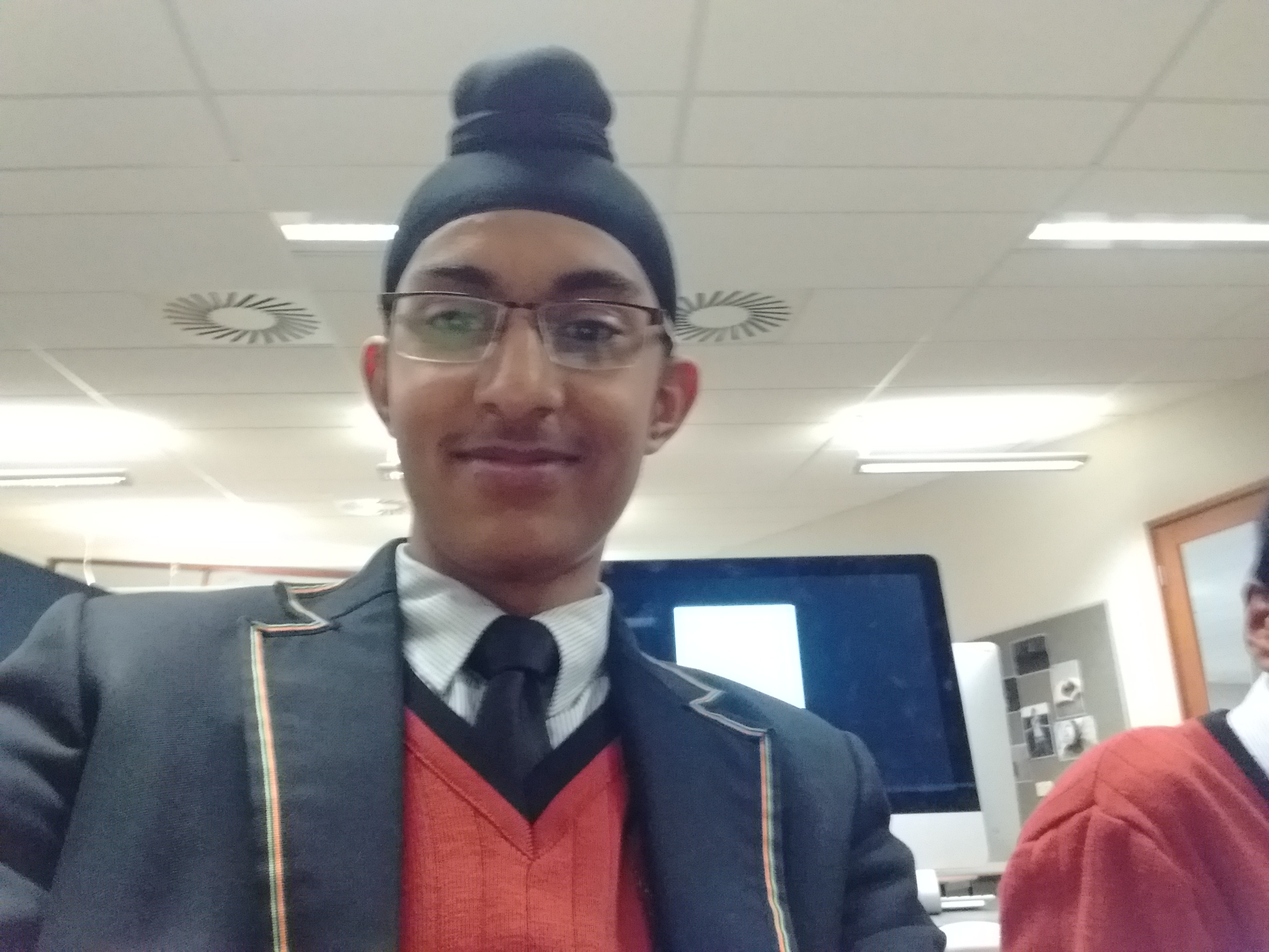
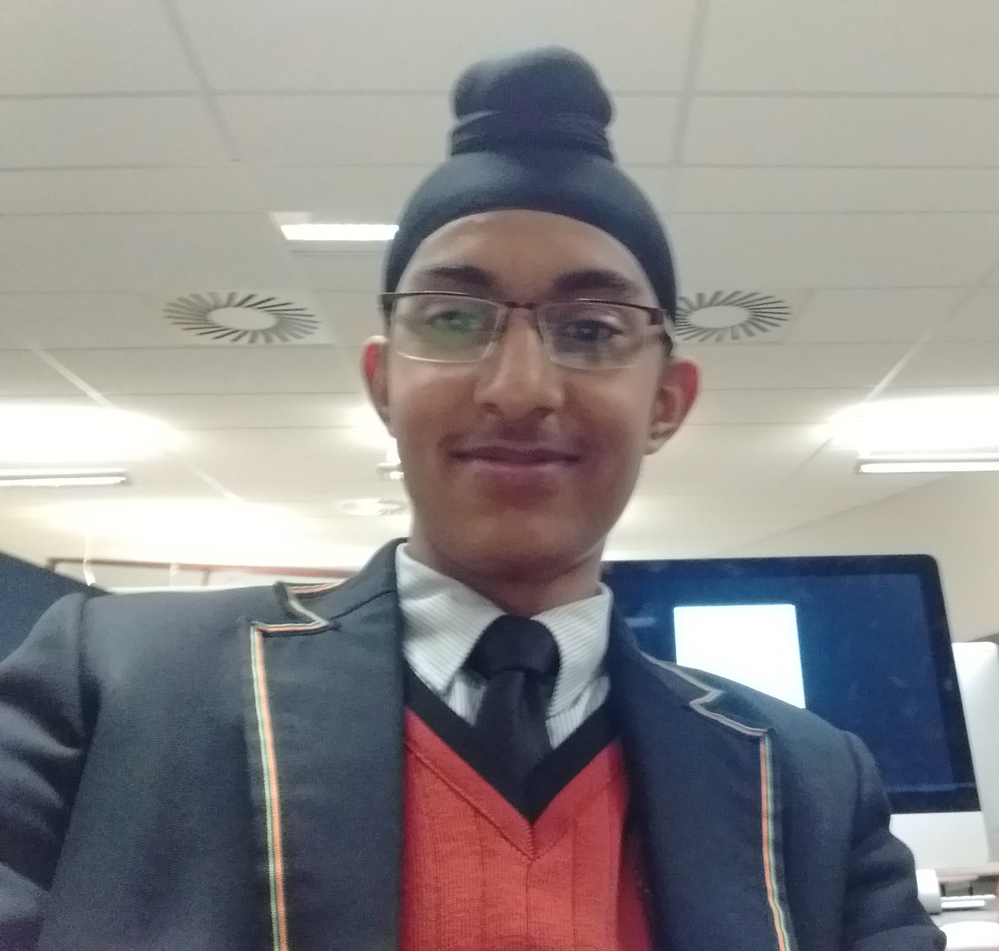
You guys aren't fucking retards now

diff --git a/about.html b/about.html
@@ -77,7 +77,7 @@
         <section>
           <a href="#" class="image">
             <!--Replace image with our photo-->
-            <img src="images/img_tej.jpg" alt="Tej Sidhu portrait photo" data-position="center center" class="wow slideInLeft" />
+            <img src="images/img_tej(1).jpg" alt="Tej Sidhu portrait photo" data-position="center center" class="wow slideInLeft" />
           </a>
           <div class="content">
             <div class="inner">
